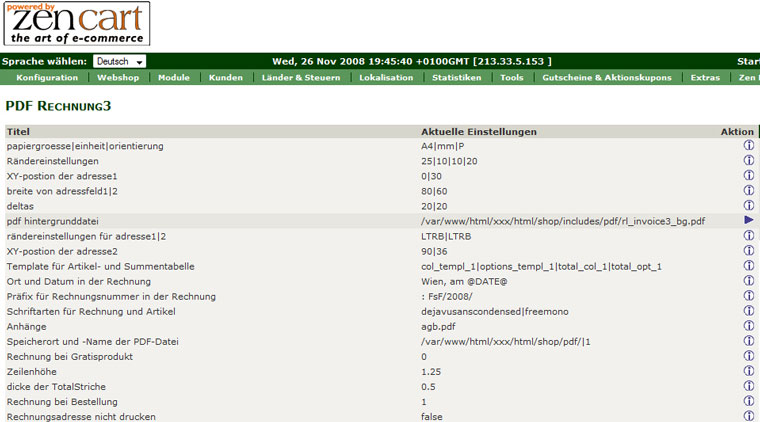
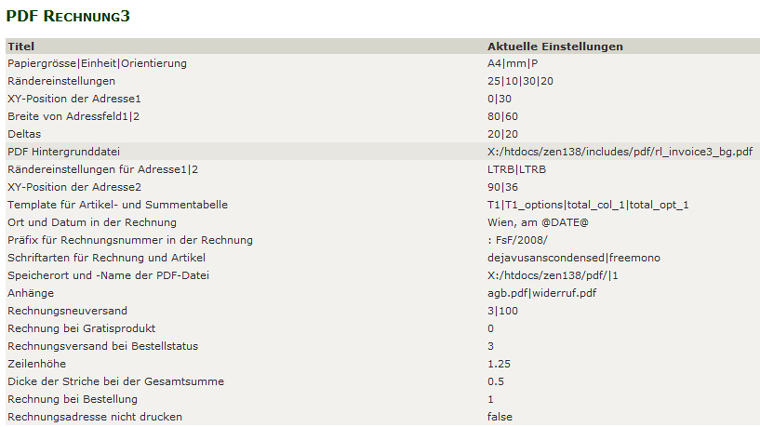
rl_invoice3: Textkorrekturen in der configuration_language SQL, Doku ergaenzt, aktuellen Screenhot eingefuegt

Changed region(s): [[0.0, 0.0, 1.0, 1.0], [0.5447, 0.955, 0.6053, 1.0], [0.6355, 0.955, 0.6961, 0.9858]]

diff --git a/zc138_addon/MIN/rl_invoice3/docs/rl_invoice3/faq.html b/zc138_addon/MIN/rl_invoice3/docs/rl_invoice3/faq.html
@@ -97,18 +97,36 @@ Weitere Infos zum Tool ufpdf auf:<br />
 <p>Generell sollten alle Einstellungen im Zen-Cart Admin unter Konfiguration &gt; pdf Rechnung 3 vorgenommen werden. Wem diese Einstellungsmöglichkeiten nicht reichen, der kann zusätzlich Änderungen in folgender Datei vornehmen:</p>
 <p>includes/pdf/rl_invoice3_def.php</p>
 <p>In dieser Konfigurationsdatei sind verschiedene Templates definiert. Standardmäßig ist unter Konfiguration &gt; pdf Rechnung 3 &gt; Template für Artikel- und Summentabelle Folgendes aktiv:</p>
-<p>col_templ_1|options_templ_1|total_col_1|total_opt_1</p>
+<p>amazon|amazon_templ|total_col_1|total_opt_1</p>
 <p>Wenn hier etwas geändert werden soll, ist also nur der entsprechende Abschnitt in der rl_invoice3_def.php relevant:</p>
-<code>$optionsP['options_templ_1'] = array(&quot;fontSize&quot; =&gt; 8, 'showHeadings' =&gt; 1, 'shaded' =&gt; 1, 'xPos' =&gt; 'left', 'xOrientation' =&gt; 'right', 'width' =&gt; $realPW-35,<br />
+<code>// amazon|amazon_templ|total_col_1|total_opt_1 <br />
+$colsP['amazon'] = array(<br />
+'subtotalI' =&gt; '...',<br />
+'subtotalE' =&gt; '...',<br />
+'qty' =&gt; TABLE_HEADING_QTY,<br />
+'model' =&gt; TABLE_HEADING_PRODUCTS_MODEL,<br />
+'name' =&gt; TABLE_HEADING_PRODUCTS,<br />
+'singleE' =&gt; TABLE_HEADING_PRICE_EXCLUDING_TAX_AMAZON,<br />
+'tax' =&gt; TABLE_HEADING_TAX,<br />
+'sumE' =&gt; TABLE_HEADING_TOTAL_EXCLUDING_TAX_AMAZON,<br />
+);<br />
+$optionsP['amazon_templ'] = array(&quot;subtotal&quot;=&gt;'subtotalE', <br />
+&quot;paperOriantation&quot;=&gt;&quot;P&quot;, <br />
+&quot;fontSize&quot; =&gt; 8, <br />
+'showHeadings' =&gt; 1, <br />
+'shaded' =&gt; 1, <br />
+'xPos' =&gt; 'left', <br />
+'xOrientation' =&gt; 'right', <br />
+'width' =&gt; $realPW-35,<br />
 'cols' =&gt; array(<br />
+'subtotalI' =&gt; array('justification' =&gt; 'R', &quot;width&quot; =&gt; 0),<br />
+'subtotalE' =&gt; array('justification' =&gt; 'R', &quot;width&quot; =&gt; 0),<br />
 'qty' =&gt; array(&quot;justification&quot; =&gt; &quot;L&quot;, &quot;width&quot; =&gt; 15),<br />
-'tax' =&gt; array(&quot;justification&quot; =&gt; &quot;R&quot;, &quot;width&quot; =&gt; 10),<br />
 'model' =&gt; array(&quot;justification&quot; =&gt; &quot;L&quot;, &quot;width&quot; =&gt; 25),<br />
-'name' =&gt; array('justification' =&gt; 'L', &quot;width&quot; =&gt; 60),<br />
-'singleI' =&gt; array('justification' =&gt; 'R', &quot;width&quot; =&gt; 25),<br />
+'name' =&gt; array('justification' =&gt; 'L', &quot;width&quot; =&gt; 75),<br />
 'singleE' =&gt; array('justification' =&gt; 'R', &quot;width&quot; =&gt; 25),<br />
-'extraI' =&gt; array('justification' =&gt; 'R', &quot;width&quot; =&gt; 20),<br />
-'sumI' =&gt; array('justification' =&gt; 'R', &quot;width&quot; =&gt; 25),<br />
+'tax' =&gt; array(&quot;justification&quot; =&gt; &quot;R&quot;, &quot;width&quot; =&gt; 15),<br />
+'sumE' =&gt; array('justification' =&gt; 'R', &quot;width&quot; =&gt; 25),<br />
 )<br />
 );</code>
 <p>Hier könnte man z.B. den fontSize statt 8 auf 7 stellen, um die Schrift kleiner zu machen.<br />

diff --git a/zc138_addon/MIN/rl_invoice3/docs/rl_invoice3/konfiguration.html b/zc138_addon/MIN/rl_invoice3/docs/rl_invoice3/konfiguration.html
@@ -64,8 +64,23 @@ agb.pdf</p>
   Restliche Einstellungen vornehmen</strong></p>
 <p>Die übrigen Konfigurationsmöglichkeiten unter Konfiguration &gt; PDF Rechnung 3 sind immer erklärt, wenn Du auf Bearbeiten clickst:</p>
 <p><img src="graphics/admin.jpg" alt="pdf Rechnung im Admin" width="760" height="422" /></p>
-<br/>
-</div>
+<p>Hier ein paar Erläuterungen zu den wichtigsten Möglichkeiten:</p>
+<p><strong>Rechnungsneuversand</strong><br/>
+Hier kannst Du einen Bestellstatus oder mehrere Bestellstati einstellen, bei denen die pdf Rechnung nach Aktualisieren der Bestellung erneut versendet werden soll. Voreingestellt ist 3 (das ist normalerweise der Status &quot;versendet&quot;) und 100 (ein eigener Bestellstatus, der vom Modul mitgeliefert wird). Überprüfe unter &quot;Lokalisation&quot; &gt; &quot;Bestelllstatus&quot; welche Werte die Bestellstati in Deinem Shop haben und stelle dann hier die gewünschten Werte ein.</p>
+<p><strong>Rechnungsversand bei Bestellstatus</strong><br />
+  Hier wird definiert, bei welchem Bestellstatus die pdf Rechnung automatisch gemailt wird. Wenn die Rechnung gleich bei der Bestellung mitgemailt werden soll, muss hier auf 1 umgestellt werden (1 ist normalerweise der Status &quot;Wartet&quot;). Auch hier vorher  unter &quot;Lokalisation&quot; &gt; &quot;Bestelllstatus&quot; unbedingt überprüfen, welche Werte in Deinem Shop wirklich aktiv sind.</p>
+<p><strong>Speicherort und -name der PDF-Datei</strong><br/>
+Hier wird eingestellt, ob die pdf Rechnung überhaupt am Server gespeichert werden soll. Und wenn ja in welchem Ordner. Voreingestellt ist der Ordner pdf im Shophauptverzeichnis. Wenn dieser Ordner verwendet wird, unbedingt sicherstellen, dass der Inhalt nicht einfach mit www.meinshop.de/pdf aufgelistet wird. Also entweder eine leere index.html in diesen Ordner legen. Oder per .htaccess das Auflisten des Ordnerinhalts unterbinden. Dazu eine Datei mit folgendem Inhalt erstellen:<br/>
+<code>Options -Indexes</code></p>
+<p>Als .htaccess abspeichern und ins pdf Verzeichnis legen. Möglicherweise ist aber serverseitig bereits eingestellt, dass der Verzeichnisinhalt bei fehlender index Datei nicht angezeigt wird.</p>
+<p>Aus Sicherheitsgründen werden die erstellten pdf Rechnungen nicht einfach nur mit der Rechnungsnummer als Dateiname sondern mit einem langen Dateinamen abgespeichert (z.B. 8_070599b1ec86ca75deac4696ca5f37eb.pdf)</p>
+<p>Eine noch bessere Absicherung der Rechnungen ist - falls das serverseitig möglich ist - als Speicherort einen Ordner unterhalb des Root Verzeichnis zu verwenden. Ein solcher Ordner kann zwar vom Webserver gelesen werden, ist aber per www nicht erreichbar.<br/>
+  Wenn ein solcher Ordner verwendet werden soll, den Pfad entsprechend anpassen.</p>
+<p><strong>Template für Artikel- und Summentabelle</strong><br/>
+  Definiert sind die Templates in folgender Datei:<br />
+  includes/pdf/rl_invoice3_def.php
+</p>
+  </div>
 </div>
 <div id="footer"><a href="#">top of page</a></div>
 </body>

diff --git a/zc138_addon/MIN/rl_invoice3/docs/rl_invoice3/installation.html b/zc138_addon/MIN/rl_invoice3/docs/rl_invoice3/installation.html
@@ -32,7 +32,7 @@ BACKUP gemacht? Ok, dann weiterlesen...<br />
 <p><em>includes/classes/order.php</em></p>
 <p>Sollten in dieser Datei bereits einmal Änderungen vorgenommen worden sein,
   vorher unbedingt den Inhalt vergleichen und die Änderungen manuell eintragen.
-  Gut geeignet dazu ist das Tool <a href="http://www.scootersoftware.com/" target="_blank">BeyondCompare</a> (des Authors Lieblingstool).</p>
+  Gut geeignet dazu ist das Tool <a href="http://www.scootersoftware.com/" target="_blank">BeyondCompare</a> (des Autors Lieblingstool).</p>
 <p>3)<br /> 
   Alle Dateien im Ordner admin in der vorgegebenen Struktur in die Zen-Cart Installation hochladen. Dabei wird folgende Datei überschrieben:</p>
 <p><em>admin/orders.php</em></p>

diff --git a/zc138_addon/MIN/rl_invoice3/includes/classes/class.rl_invoice3.php b/zc138_addon/MIN/rl_invoice3/includes/classes/class.rl_invoice3.php
@@ -220,26 +220,26 @@ class rl_invoice3 extends fpdi {
             if ($multi) {
                $ins = "INSERT INTO " . TABLE_CONFIGURATION_LANGUAGE . " (configuration_key, configuration_language_id, configuration_title, configuration_description) VALUES ";
                $confArrMultiAdd = array(
-                                    'RL_INVOICE3_ADDRESS1_POS' => "('RL_INVOICE3_ADDRESS1_POS', 43, 'XY-postion der adresse1', 'XY-postion der adresse1; es ist das delta zu den raendern einzugeben<br />Standard: 0|30')", 
-                                    'RL_INVOICE3_ADDRESS2_POS' => "('RL_INVOICE3_ADDRESS2_POS', 43, 'XY-postion der adresse2', 'XY-postion der adresse2; es ist das delta zu den raendern einzugeben<br />Standard: 0|30')",
-                                    'RL_INVOICE3_ADDRESS_BORDER' => "('RL_INVOICE3_ADDRESS_BORDER', 43, 'rändereinstellungen für adresse1|2', 'rändereinstellungen für adresse1|2<br />LTRB (Left Top Right Bottom)<br />Standard: LTRB|LTRB<br />')", 
-                                    'RL_INVOICE3_ADDRESS_WIDTH' => "('RL_INVOICE3_ADDRESS_WIDTH', 43, 'breite von adressfeld1|2', '<br />standard: 80|60')", 
+                                    'RL_INVOICE3_ADDRESS1_POS' => "('RL_INVOICE3_ADDRESS1_POS', 43, 'XY-Position der Adresse1', 'XY-Position der Adresse1; es ist das Delta zu den Rändern einzugeben<br />Standard: 0|30')", 
+                                    'RL_INVOICE3_ADDRESS2_POS' => "('RL_INVOICE3_ADDRESS2_POS', 43, 'XY-Postion der Adresse2', 'XY-Postion der Adresse2; es ist das Delta zu den Rändern einzugeben<br />Standard: 0|30')",
+                                    'RL_INVOICE3_ADDRESS_BORDER' => "('RL_INVOICE3_ADDRESS_BORDER', 43, 'Rändereinstellungen für Adresse1|2', 'Rändereinstellungen für Adresse1|2<br />LTRB (Left Top Right Bottom)<br />Standard: LTRB|LTRB<br />')", 
+                                    'RL_INVOICE3_ADDRESS_WIDTH' => "('RL_INVOICE3_ADDRESS_WIDTH', 43, 'Breite von Adressfeld1|2', '<br />standard: 80|60')", 
                                     'RL_INVOICE3_CITY' => "('RL_INVOICE3_CITY', 43, 'Ort und Datum in der Rechnung', 'Beispiel: Wien, am @DATE@ (= Wien, am 06.10.2008)<br />')", 
-                                    'RL_INVOICE3_DELTA' => "('RL_INVOICE3_DELTA', 43, 'deltas', 'abstand adresse::rechnungsnummer | abstand rechnungsnummer:produktliste<br />Standard: 20|20<br />')", 
-                                    'RL_INVOICE3_FONTS' => "('RL_INVOICE3_FONTS', 43, 'Schriftarten für Rechnung und Artikel', 'Welche Schriftarten wollen Sie verwenden? <br />1. Für Rechnungstexte <br >2. Für Artikel & Summe<br /><br />Standart: dejavusanscondensed|freemono<br />(Pfad/und Schriftart für Rechnung|Pfad/und Schriftart für Artikel+Summe<br />')", 
-                                    'RL_INVOICE3_LINE_HEIGT' => "('RL_INVOICE3_LINE_HEIGT', 43, 'Zeilenhöhe', 'soll Rechnung bei Gratisprodukt dem Mail hinzugefügt werden')", 
-                                    'RL_INVOICE3_LINE_THICK' => "('RL_INVOICE3_LINE_THICK', 43, 'dicke der TotalStriche', 'wie dick soll der Strich bei der Gesamtsumme sein')", 
+                                    'RL_INVOICE3_DELTA' => "('RL_INVOICE3_DELTA', 43, 'Deltas', 'Abstand Adresse:Rechnungsnummer | Abstand Rechnungsnummer:Produktliste<br />Standard: 20|20<br />')", 
+                                    'RL_INVOICE3_FONTS' => "('RL_INVOICE3_FONTS', 43, 'Schriftarten für Rechnung und Artikel', 'Welche Schriftarten wollen Sie verwenden? <br />1. Für Rechnungstexte <br >2. Für Artikel und Summe<br /><br />Standard: dejavusanscondensed|freemono<br />(Pfad/und Schriftart für Rechnung|Pfad/und Schriftart für Artikel und Summe<br />')", 
+                                    'RL_INVOICE3_LINE_HEIGT' => "('RL_INVOICE3_LINE_HEIGT', 43, 'Zeilenhöhe', 'Zeilenhöhe')", 
+                                    'RL_INVOICE3_LINE_THICK' => "('RL_INVOICE3_LINE_THICK', 43, 'Dicke der Striche bei Gesamtsumme', 'Wie dick soll der Strich bei der Gesamtsumme sein?')", 
                                     'RL_INVOICE3_MARGIN' => "('RL_INVOICE3_MARGIN', 43, 'Rändereinstellungen', 'Format: oben|rechts|unten|links<br />(Hinweis: 1inch = 72pt / 2.54cm; 1cm = 28,35pt)<br />Standard: 30|30|30|60<br />')", 
-                                    'RL_INVOICE3_NOT_NULL_INVOICE' => "('RL_INVOICE3_NOT_NULL_INVOICE', 43, 'Rechnung bei Gratisprodukt', 'soll Rechnung bei Gratisprodukt dem Mail hinzugefügt werden')", 
-                                    'RL_INVOICE3_ORDERSTATUS' =>  "('RL_INVOICE3_ORDERSTATUS', 43, 'Rechnungsversand bei Bestellstatus', 'Rechnung nur mitshicken, wenn der Bestellstatus grösser/gleich ist [default: 3 == verschickt]')", 
+                                    'RL_INVOICE3_NOT_NULL_INVOICE' => "('RL_INVOICE3_NOT_NULL_INVOICE', 43, 'Rechnung bei Gratisprodukt', 'Soll die Rechnung auch bei einem Gratisprodukt dem Mail hinzugefügt werden?')", 
+                                    'RL_INVOICE3_ORDERSTATUS' =>  "('RL_INVOICE3_ORDERSTATUS', 43, 'Rechnungsversand bei Bestellstatus', 'Rechnung nur mitschicken, wenn der Bestellstatus grösser/gleich ist [default: 3 == verschickt]')", 
                                     'RL_INVOICE3_ORDER_ID_PREFIX' => "('RL_INVOICE3_ORDER_ID_PREFIX', 43, 'Präfix für Rechnungsnummer in der Rechnung', 'Präfix für Rechnungsnummer in der Rechnung<br />Beispiel: : FsF/2008/<br />')", 
-                                    'RL_INVOICE3_PAPER' => "('RL_INVOICE3_PAPER', 43, 'papiergroesse|einheit|orientierung', '1. papiergroesse = A3|A4|A5|Letter|Legal <br />2. einheit: pt|mm|cm|inch <br />3. orientierung: L|P<br />')", 
-                                    'RL_INVOICE3_PDF_BACKGROUND' => "('RL_INVOICE3_PDF_BACKGROUND', 43, 'pdf hintergrunddatei', 'pdf hintergrunddatei<br />Standard: " . DIR_FS_CATALOG . DIR_WS_INCLUDES . "pdf/rl_invoice3_bg.pdf<br />')", 
-                                    'RL_INVOICE3_PDF_PATH' => "('RL_INVOICE3_PDF_PATH', 43, 'Speicherort und -Name der PDF-Datei', '1. Wo sollen PDF-Dateien gespeichert werden (!! muss beschreibbar sein !!)?<br />2. speichern ja|nein (1|0)<br />Standard: " . DIR_FS_CATALOG . DIR_WS_INCLUDES . "pdf/|1<br />')", 
-                                    'RL_INVOICE3_SEND_ATTACH' => "('RL_INVOICE3_SEND_ATTACH', 43, 'Anhänge', 'welche PDFs sollen noch angehängt werden; bei mehreren dateien | (pipe) als trenner verwenden)')", 
-                                    'RL_INVOICE3_SEND_ORDERSTATUS_CHANGE' => "('RL_INVOICE3_SEND_ORDERSTATUS_CHANGE', 43, 'Rechnungsneuversand', 'bei welcher Änderung des Bestellstatus soll die Rechnung [nochmals] versendet werden')", 
-                                    'RL_INVOICE3_SEND_PDF' => "('RL_INVOICE3_SEND_PDF', 43, 'Rechnung bei Bestellung', 'soll Rechnung bei Bestellung gesendet werden')", 
-                                    'RL_INVOICE3_TABLE_TEMPLATE' => "('RL_INVOICE3_TABLE_TEMPLATE', 43, 'Template für Artikel- und Summentabelle', 'Template für Artikel- und Summentabelle<br />Definition ist in rl_invoice3_def.php<br />Standard: 30|30|30|60<br />Standard: col_templ_1|options_templ_1|total_col_1|total_opt_1<br />')",
+                                    'RL_INVOICE3_PAPER' => "('RL_INVOICE3_PAPER', 43, 'Papiergrösse|Einheit|Orientierung', '1. Papiergrösse = A3|A4|A5|Letter|Legal <br />2. Einheit: pt|mm|cm|inch <br />3. Orientierung: L|P<br />')", 
+                                    'RL_INVOICE3_PDF_BACKGROUND' => "('RL_INVOICE3_PDF_BACKGROUND', 43, 'PDF Hintergrunddatei', 'PDF Hintergrunddatei<br />Standard: " . DIR_FS_CATALOG . DIR_WS_INCLUDES . "pdf/rl_invoice3_bg.pdf<br />')", 
+                                    'RL_INVOICE3_PDF_PATH' => "('RL_INVOICE3_PDF_PATH', 43, 'Speicherort und -name der PDF-Datei', '1. Wo sollen PDF-Dateien gespeichert werden (!! muss beschreibbar sein !!)?<br />2. speichern ja|nein (1|0)<br />Standard: " . DIR_FS_CATALOG . DIR_WS_INCLUDES . "pdf/|1<br />')", 
+                                    'RL_INVOICE3_SEND_ATTACH' => "('RL_INVOICE3_SEND_ATTACH', 43, 'Anhänge', 'Welche PDFs sollen noch angehängt werden; bei mehreren Dateien | (pipe) als Trenner verwenden)')", 
+                                    'RL_INVOICE3_SEND_ORDERSTATUS_CHANGE' => "('RL_INVOICE3_SEND_ORDERSTATUS_CHANGE', 43, 'Rechnungsneuversand', 'Bei welcher Änderung des Bestellstatus soll die Rechnung [nochmals] versendet werden')", 
+                                    'RL_INVOICE3_SEND_PDF' => "('RL_INVOICE3_SEND_PDF', 43, 'Rechnung bei Bestellung', 'Soll die Rechnung gleich bei der Bestellung gesendet werden?')", 
+                                    'RL_INVOICE3_TABLE_TEMPLATE' => "('RL_INVOICE3_TABLE_TEMPLATE', 43, 'Template für Artikel- und Summentabelle', 'Template für Artikel- und Summentabelle<br />Definition ist in includes/pdf/rl_invoice3_def.php<br />Standard: 30|30|30|60<br />Standard: amazon|amazon_templ|total_col_1|total_opt_1<br />')",
                                     'RL_INVOICE3_WITHOUTINVOICE' => "('RL_INVOICE3_WITHOUTINVOICE', 43, 'Rechnungsadresse nicht drucken', 'Rechnungsadresse nicht drucken')",
                                     );
                foreach ($confDiffAdd as $value) {
